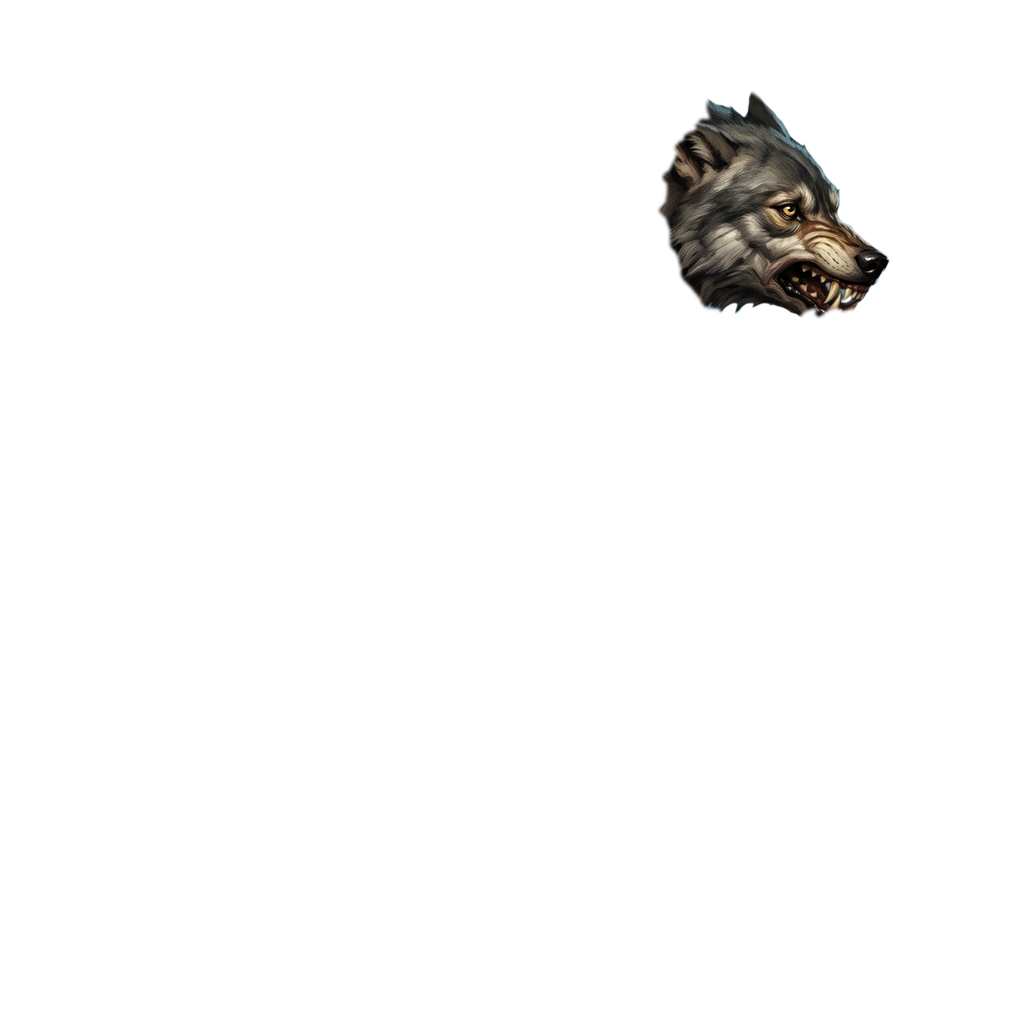
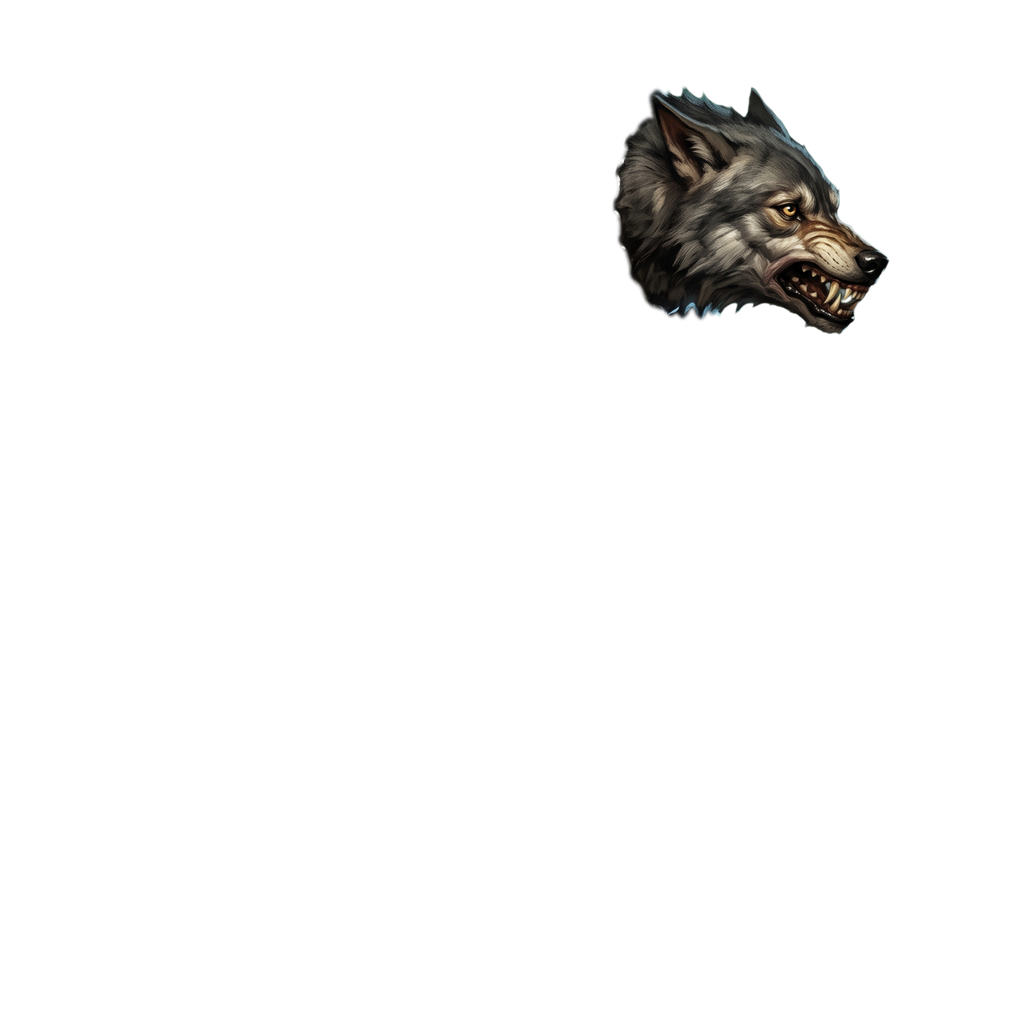
Volkolak's beast form cut into head and both clawed arms, not the head alone

Changed region(s): [[0.5938, 0.0625, 0.7188, 0.3125], [0.7812, 0.2812, 0.8438, 0.3438]]

diff --git a/crates/game/src/battle/rig.rs b/crates/game/src/battle/rig.rs
@@ -76,7 +76,7 @@ const FIGURES: &[(&str, &[Cut])] = &[
     ("heroes/vorozheya", &[(Part::Shield, Vec2::new(0.36, 0.355), 0.8), (Part::Head, Vec2::new(0.46, 0.22), 1.0), (Part::Arm, Vec2::new(0.66, 0.335), -0.7)]),
     ("heroes/volhv", &[(Part::Shield, Vec2::new(0.33, 0.36), 0.8), (Part::Head, Vec2::new(0.47, 0.18), 0.9), (Part::Arm, Vec2::new(0.635, 0.37), -0.45)]),
     ("heroes/volkolak", &[(Part::Shield, Vec2::new(0.70, 0.43), 0.8), (Part::Head, Vec2::new(0.58, 0.24), 1.0), (Part::Arm, Vec2::new(0.29, 0.42), 1.0)]),
-    ("heroes/volkolak_beast", &[(Part::Head, Vec2::new(0.69, 0.22), 1.2)]),
+    ("heroes/volkolak_beast", &[(Part::Shield, Vec2::new(0.265, 0.30), 0.8), (Part::Head, Vec2::new(0.70, 0.24), 1.2), (Part::Arm, Vec2::new(0.654, 0.36), 1.0)]),
     ("heroes/skomoroh", &[(Part::Shield, Vec2::new(0.69, 0.44), 0.8), (Part::Head, Vec2::new(0.57, 0.22), 1.0), (Part::Arm, Vec2::new(0.20, 0.37), 0.8)]),
     ("heroes/znaharka", &[(Part::Shield, Vec2::new(0.40, 0.40), 0.7), (Part::Head, Vec2::new(0.61, 0.20), 0.9), (Part::Arm, Vec2::new(0.73, 0.40), -0.6)]),
     ("enemies/death_duck", &[(Part::Head, Vec2::new(0.27, 0.74), 0.8)]),
